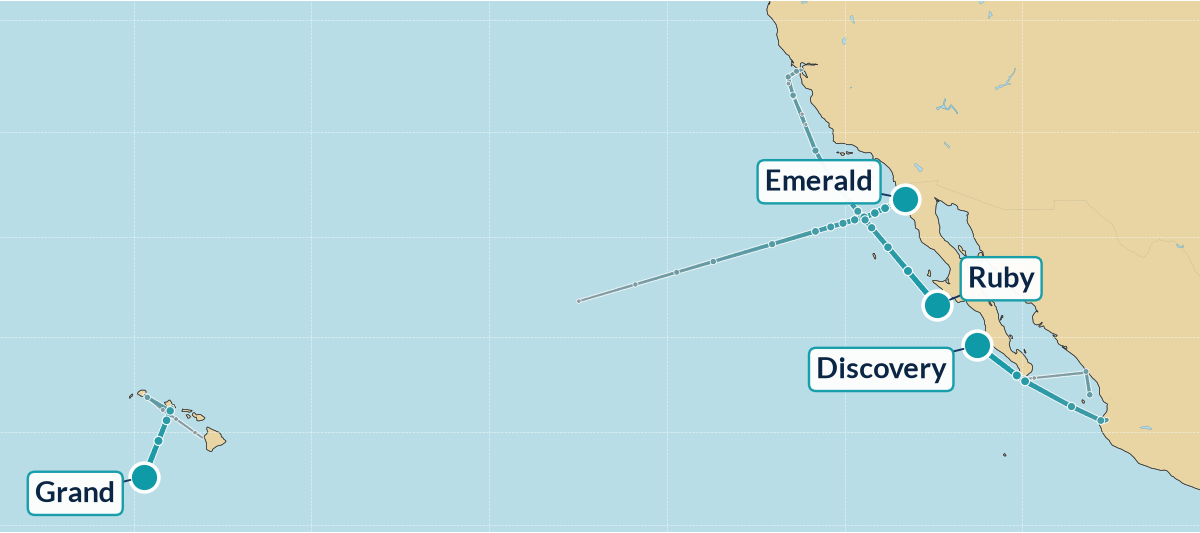
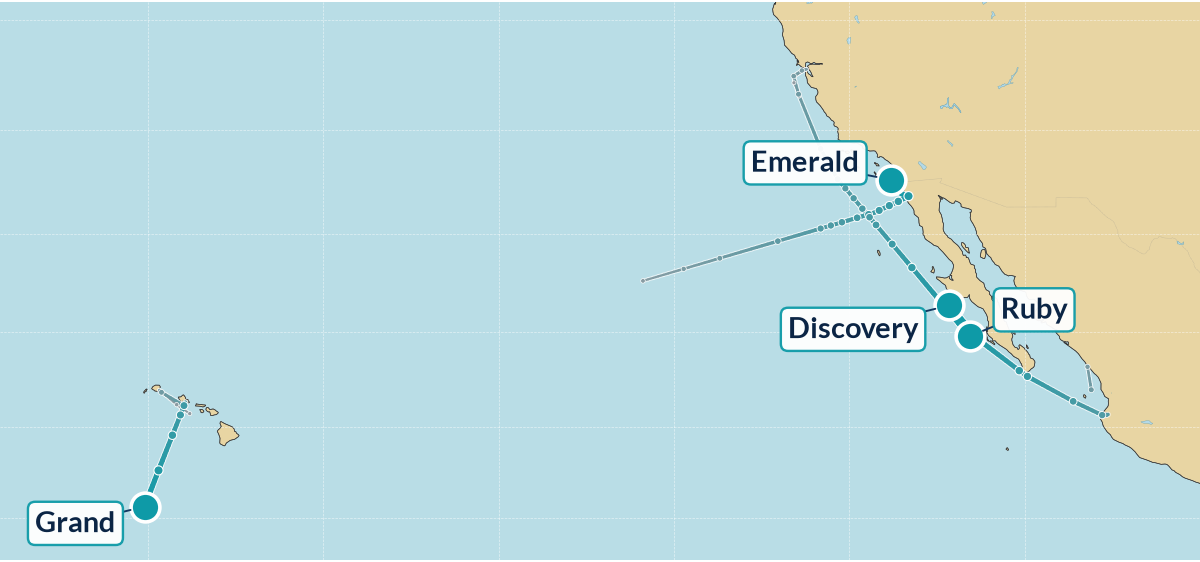
Update 10/16 00:01 PT

diff --git a/index.html b/index.html
@@ -1,47 +1,47 @@
 <!DOCTYPE html><html lang="en"><head><meta charset="utf-8"><meta name="viewport" content="width=device-width, initial-scale=1"><meta http-equiv="refresh" content="1800"><meta name="description" content="Live Princess Cruises fleet tracker"><title>Princess Patter — Thursday, October 15, 2026</title></head>
 <body style="margin:0;padding:0;background-color:#dee2e8;">
-<div style="display:none;max-height:0;overflow:hidden;opacity:0;color:#dee2e8;font-size:1px;line-height:1px;">Thursday, October 15, 2026 — 3:55pm PT | 17 ships | 13 at sea, 4 in port</div>
+<div style="display:none;max-height:0;overflow:hidden;opacity:0;color:#dee2e8;font-size:1px;line-height:1px;">Thursday, October 15, 2026 — 11:03pm PT | 17 ships | 11 at sea, 6 in port</div>
 <table role="presentation" width="100%" cellpadding="0" cellspacing="0" border="0" bgcolor="#dee2e8" style="background-color:#dee2e8;border-collapse:collapse;"><tr><td align="center" style="padding:16px 8px;">
 <table role="presentation" width="100%" cellpadding="0" cellspacing="0" border="0" bgcolor="#fdfdfb" style="width:100%;max-width:900px;background-color:#fdfdfb;border-collapse:collapse;border:1px solid #d6dae0;">
 <tr><td bgcolor="#1d3a6b" align="left" style="background-color:#1d3a6b;padding:24px 28px 24px 28px;"><div style="font-family:Georgia, 'Times New Roman', Times, serif;font-size:40px;line-height:46px;color:#ffffff;letter-spacing:0.5px;"><span style="color:#a8b6e2;">≋</span>&nbsp;Princess Patter</div></td></tr>
-<tr><td style="padding:0;"><table role="presentation" width="100%" cellpadding="0" cellspacing="0" border="0" style="border-collapse:collapse;"><tr><td height="5" bgcolor="#6a5aa8" style="background-color:#6a5aa8;height:5px;font-size:0;line-height:0;width:60%;">&nbsp;</td><td height="5" bgcolor="#2f6db5" style="background-color:#2f6db5;height:5px;font-size:0;line-height:0;width:40%;">&nbsp;</td></tr></table></td></tr><tr><td bgcolor="#1d3a6b" style="background:linear-gradient(#1d3a6b,#2f6db5);padding:10px 16px 14px;text-align:center;"><img src="regal.png?v=202610152300" alt="Regal Princess" style="width:100%;max-width:640px;height:auto;display:block;margin:0 auto;"></td></tr>
+<tr><td style="padding:0;"><table role="presentation" width="100%" cellpadding="0" cellspacing="0" border="0" style="border-collapse:collapse;"><tr><td height="5" bgcolor="#6a5aa8" style="background-color:#6a5aa8;height:5px;font-size:0;line-height:0;width:60%;">&nbsp;</td><td height="5" bgcolor="#2f6db5" style="background-color:#2f6db5;height:5px;font-size:0;line-height:0;width:40%;">&nbsp;</td></tr></table></td></tr><tr><td bgcolor="#1d3a6b" style="background:linear-gradient(#1d3a6b,#2f6db5);padding:10px 16px 14px;text-align:center;"><img src="regal.png?v=202610160001" alt="Regal Princess" style="width:100%;max-width:640px;height:auto;display:block;margin:0 auto;"></td></tr>
 <tr><td style="padding:22px 20px 6px 20px;">
-<div style="font-family:Georgia, 'Times New Roman', Times, serif;font-style:italic;font-size:20px;line-height:26px;color:#2f6db5;">Good afternoon!</div>
+<div style="font-family:Georgia, 'Times New Roman', Times, serif;font-style:italic;font-size:20px;line-height:26px;color:#2f6db5;">Good evening!</div>
 <div style="font-family:Georgia, 'Times New Roman', Times, serif;font-weight:bold;font-size:26px;line-height:32px;color:#1d3a6b;padding-top:6px;">Thursday, October 15, 2026</div>
-<div style="font-family:Helvetica, Arial, sans-serif;font-size:16px;line-height:22px;color:#2f6db5;padding-top:4px;">3:55pm PT | 17 ships | 13 at sea, 4 in port</div>
-</td></tr><tr><td style="padding:14px 20px 0 20px;"><div style="font-family:Georgia, 'Times New Roman', Times, serif;font-style:italic;font-weight:bold;font-size:18px;color:#295aa0;padding:0 4px 4px;border-bottom:1px solid #295aa0;">pacific map</div><a href="map.png?v=202610152300"><img src="map.png?v=202610152300" alt="Pacific fleet map" style="width:100%;height:auto;display:block;margin-top:8px;border-radius:12px;border:2px solid #c8dee2;"></a></td></tr>
+<div style="font-family:Helvetica, Arial, sans-serif;font-size:16px;line-height:22px;color:#2f6db5;padding-top:4px;">11:03pm PT | 17 ships | 11 at sea, 6 in port</div>
+</td></tr><tr><td style="padding:14px 20px 0 20px;"><div style="font-family:Georgia, 'Times New Roman', Times, serif;font-style:italic;font-weight:bold;font-size:18px;color:#295aa0;padding:0 4px 4px;border-bottom:1px solid #295aa0;">pacific map</div><a href="map.png?v=202610160001"><img src="map.png?v=202610160001" alt="Pacific fleet map" style="width:100%;height:auto;display:block;margin-top:8px;border-radius:12px;border:2px solid #c8dee2;"></a></td></tr>
 <tr><td style="padding:14px 20px 4px 20px;">
 <table role="presentation" width="100%" cellpadding="0" cellspacing="0" border="0" style="border-collapse:collapse;width:100%;font-family:Helvetica, Arial, sans-serif;font-size:15px;line-height:20px;color:#262c38;">
 <tr bgcolor="#2f6db5" style="background-color:#2f6db5;"><td style="font-size:14px;line-height:18px;font-weight:bold;color:#ffffff;text-align:left;padding:9px 8px;padding-left:10px;" colspan="2">Ship</td><td style="font-size:14px;line-height:18px;font-weight:bold;color:#ffffff;text-align:left;padding:9px 8px;">Where</td><td style="font-size:14px;line-height:18px;font-weight:bold;color:#ffffff;text-align:left;padding:9px 8px;">Next Port</td></tr>
+<tr><td colspan="4" style="padding:14px 4px 4px 4px;border-bottom:1px solid #295aa0;font-family:Georgia, 'Times New Roman', Times, serif;font-style:italic;font-weight:bold;font-size:18px;line-height:22px;color:#295aa0;">california coastal &amp; pacific northwest</td></tr>
+<tr bgcolor="#eef0f3" style="background-color:#eef0f3;"><td width="18" style="padding:7px 0 7px 8px;vertical-align:top;width:18px;color:#1a9a9a;font-size:18px;">&nbsp;</td><td style="padding:7px 8px;vertical-align:top;"><b style="color:#1d3a6b;">Emerald</b></td><td style="padding:7px 8px;vertical-align:top;">At Sea <span style="white-space:nowrap;font-size:12px;color:#707884;" title="Forecast high/low">🌙&thinsp;74°</span> <span style="font-size:12px;color:#707884;"><span style="white-space:nowrap;">🌊 4 ft</span> &middot; <span style="white-space:nowrap;">💨 WNW 10 kt</span> &middot; <span style="white-space:nowrap;">🚢 16.6 kn</span></span></td><td style="padding:7px 8px;vertical-align:top;">Los Angeles <span style="white-space:nowrap;font-size:12px;color:#707884;" title="Forecast high/low">⛅&thinsp;98°/70°</span> <span style="font-size:13px;color:#707884;">(10/16 6:15am)</span></td></tr>
 <tr><td colspan="4" style="padding:14px 4px 4px 4px;border-bottom:1px solid #295aa0;font-family:Georgia, 'Times New Roman', Times, serif;font-style:italic;font-weight:bold;font-size:18px;line-height:22px;color:#295aa0;">canada &amp; new england</td></tr>
-<tr bgcolor="#eef0f3" style="background-color:#eef0f3;"><td width="18" style="padding:7px 0 7px 8px;vertical-align:top;width:18px;color:#1a9a9a;font-size:18px;">&nbsp;</td><td style="padding:7px 8px;vertical-align:top;"><b style="color:#1d3a6b;">Majestic</b></td><td style="padding:7px 8px;vertical-align:top;">At Sea <span style="white-space:nowrap;font-size:12px;color:#707884;" title="Forecast high/low">🌙&thinsp;48°</span> <span style="font-size:12px;color:#707884;"><span style="white-space:nowrap;">🌊 2 ft</span> &middot; <span style="white-space:nowrap;">🚢 17.6 kn</span></span></td><td style="padding:7px 8px;vertical-align:top;">New York <span style="white-space:nowrap;font-size:12px;color:#707884;" title="Forecast high/low">☁&thinsp;61°/44°</span> <span style="font-size:13px;color:#707884;">(10/17 4am)</span></td></tr>
-<tr bgcolor="#ffffff" style="background-color:#ffffff;"><td width="18" style="padding:7px 0 7px 8px;vertical-align:top;width:18px;color:#1a9a9a;font-size:18px;">&nbsp;</td><td style="padding:7px 8px;vertical-align:top;"><b style="color:#1d3a6b;">Sapphire</b></td><td style="padding:7px 8px;vertical-align:top;">At Sea <span style="white-space:nowrap;font-size:12px;color:#707884;" title="Forecast high/low">🌙&thinsp;35°</span> <span style="font-size:12px;color:#707884;"><span style="white-space:nowrap;">💨 WNW 4 kt</span> &middot; <span style="white-space:nowrap;">🚢 19.0 kn</span></span></td><td style="padding:7px 8px;vertical-align:top;">Halifax <span style="white-space:nowrap;font-size:12px;color:#707884;" title="Forecast high/low">🌧&thinsp;62°/38°</span> <span style="font-size:13px;color:#707884;">(10/17 3am)</span></td></tr>
+<tr bgcolor="#eef0f3" style="background-color:#eef0f3;"><td width="18" style="padding:7px 0 7px 8px;vertical-align:top;width:18px;color:#1a9a9a;font-size:18px;">&nbsp;</td><td style="padding:7px 8px;vertical-align:top;"><b style="color:#1d3a6b;">Majestic</b></td><td style="padding:7px 8px;vertical-align:top;">At Sea <span style="white-space:nowrap;font-size:12px;color:#707884;" title="Forecast high/low">🌙&thinsp;51°</span> <span style="font-size:12px;color:#707884;"><span style="white-space:nowrap;">🌊 4 ft</span> &middot; <span style="white-space:nowrap;">💨 ENE 7 kt</span> &middot; <span style="white-space:nowrap;">🚢 18.0 kn</span></span></td><td style="padding:7px 8px;vertical-align:top;">New York <span style="white-space:nowrap;font-size:12px;color:#707884;" title="Forecast high/low">☁&thinsp;61°/44°</span> <span style="font-size:13px;color:#707884;">(10/17 4am)</span></td></tr>
+<tr bgcolor="#ffffff" style="background-color:#ffffff;"><td width="18" style="padding:7px 0 7px 8px;vertical-align:top;width:18px;color:#1a9a9a;font-size:18px;">&nbsp;</td><td style="padding:7px 8px;vertical-align:top;"><b style="color:#1d3a6b;">Sapphire</b></td><td style="padding:7px 8px;vertical-align:top;">At Sea <span style="white-space:nowrap;font-size:12px;color:#707884;" title="Forecast high/low">🌙&thinsp;46°</span> <span style="font-size:12px;color:#707884;"><span style="white-space:nowrap;">🌊 1 ft</span> &middot; <span style="white-space:nowrap;">💨 NE 9 kt</span> &middot; <span style="white-space:nowrap;">🚢 10.6 kn</span></span></td><td style="padding:7px 8px;vertical-align:top;">Halifax <span style="white-space:nowrap;font-size:12px;color:#707884;" title="Forecast high/low">🌧&thinsp;62°/37°</span> <span style="font-size:13px;color:#707884;">(10/17 3am)</span></td></tr>
 <tr><td colspan="4" style="padding:14px 4px 4px 4px;border-bottom:1px solid #295aa0;font-family:Georgia, 'Times New Roman', Times, serif;font-style:italic;font-weight:bold;font-size:18px;line-height:22px;color:#295aa0;">caribbean</td></tr>
-<tr bgcolor="#eef0f3" style="background-color:#eef0f3;"><td width="18" style="padding:7px 0 7px 8px;vertical-align:top;width:18px;color:#1a9a9a;font-size:18px;">&nbsp;</td><td style="padding:7px 8px;vertical-align:top;"><b style="color:#1d3a6b;">Caribbean</b></td><td style="padding:7px 8px;vertical-align:top;">At Sea <span style="white-space:nowrap;font-size:12px;color:#707884;" title="Forecast high/low">🌙&thinsp;81°</span> <span style="font-size:12px;color:#707884;"><span style="white-space:nowrap;">🌊 3 ft</span> &middot; <span style="white-space:nowrap;">🚢 10.8 kn</span></span></td><td style="padding:7px 8px;vertical-align:top;">Grand Turk <span style="white-space:nowrap;font-size:12px;color:#707884;" title="Forecast high/low">🌦&thinsp;85°/84°</span> <span style="font-size:13px;color:#707884;">(10/16 4am)</span></td></tr>
-<tr bgcolor="#ffffff" style="background-color:#ffffff;"><td width="18" style="padding:7px 0 7px 8px;vertical-align:top;width:18px;color:#1a9a9a;font-size:18px;">&nbsp;</td><td style="padding:7px 8px;vertical-align:top;"><b style="color:#1d3a6b;">Coral</b></td><td style="padding:7px 8px;vertical-align:top;">At Sea <span style="white-space:nowrap;font-size:12px;color:#707884;" title="Forecast high/low">🌙&thinsp;84°</span> <span style="font-size:12px;color:#707884;"><span style="white-space:nowrap;">🌊 2 ft</span> &middot; <span style="white-space:nowrap;">🚢 18.3 kn</span></span></td><td style="padding:7px 8px;vertical-align:top;">Philipsburg <span style="white-space:nowrap;font-size:12px;color:#707884;" title="Forecast high/low">☀&thinsp;84°/83°</span> <span style="font-size:13px;color:#707884;">(10/18 6am)</span></td></tr>
-<tr bgcolor="#eef0f3" style="background-color:#eef0f3;"><td width="18" style="padding:7px 0 7px 8px;vertical-align:top;width:18px;color:#1a9a9a;font-size:18px;">&nbsp;</td><td style="padding:7px 8px;vertical-align:top;"><b style="color:#1d3a6b;">Regal</b></td><td style="padding:7px 8px;vertical-align:top;">At Sea <span style="white-space:nowrap;font-size:12px;color:#707884;" title="Forecast high/low">🌙&thinsp;84°</span> <span style="font-size:12px;color:#707884;"><span style="white-space:nowrap;">🌊 3 ft</span> &middot; <span style="white-space:nowrap;">🚢 12.0 kn</span></span></td><td style="padding:7px 8px;vertical-align:top;">Nassau <span style="white-space:nowrap;font-size:12px;color:#707884;" title="Forecast high/low">☁&thinsp;89°/78°</span> <span style="font-size:13px;color:#707884;">(10/16 5am)</span></td></tr>
+<tr bgcolor="#eef0f3" style="background-color:#eef0f3;"><td width="18" style="padding:7px 0 7px 8px;vertical-align:top;width:18px;color:#1a9a9a;font-size:18px;">&nbsp;</td><td style="padding:7px 8px;vertical-align:top;"><b style="color:#1d3a6b;">Caribbean</b></td><td style="padding:7px 8px;vertical-align:top;">At Sea <span style="white-space:nowrap;font-size:12px;color:#707884;" title="Forecast high/low">🌙&thinsp;84°</span> <span style="font-size:12px;color:#707884;"><span style="white-space:nowrap;">🌊 4 ft</span> &middot; <span style="white-space:nowrap;">💨 E 15 kt</span> &middot; <span style="white-space:nowrap;">🚢 11.2 kn</span></span></td><td style="padding:7px 8px;vertical-align:top;">Grand Turk <span style="white-space:nowrap;font-size:12px;color:#707884;" title="Forecast high/low">🌦&thinsp;85°/84°</span> <span style="font-size:13px;color:#707884;">(10/16 4am)</span></td></tr>
+<tr bgcolor="#ffffff" style="background-color:#ffffff;"><td width="18" style="padding:7px 0 7px 8px;vertical-align:top;width:18px;color:#1a9a9a;font-size:18px;">&nbsp;</td><td style="padding:7px 8px;vertical-align:top;"><b style="color:#1d3a6b;">Coral</b></td><td style="padding:7px 8px;vertical-align:top;">At Sea <span style="white-space:nowrap;font-size:12px;color:#707884;" title="Forecast high/low">🌙&thinsp;84°</span> <span style="font-size:12px;color:#707884;"><span style="white-space:nowrap;">🌊 2 ft</span> &middot; <span style="white-space:nowrap;">💨 E 12 kt</span> &middot; <span style="white-space:nowrap;">🚢 18.4 kn</span></span></td><td style="padding:7px 8px;vertical-align:top;">Philipsburg <span style="white-space:nowrap;font-size:12px;color:#707884;" title="Forecast high/low">☀&thinsp;84°/83°</span> <span style="font-size:13px;color:#707884;">(10/18 6am)</span></td></tr>
+<tr bgcolor="#eef0f3" style="background-color:#eef0f3;"><td width="18" style="padding:7px 0 7px 8px;vertical-align:top;width:18px;color:#1a9a9a;font-size:18px;">&nbsp;</td><td style="padding:7px 8px;vertical-align:top;"><b style="color:#1d3a6b;">Regal</b></td><td style="padding:7px 8px;vertical-align:top;">At Sea <span style="white-space:nowrap;font-size:12px;color:#707884;" title="Forecast high/low">🌙&thinsp;84°</span> <span style="font-size:12px;color:#707884;"><span style="white-space:nowrap;">🌊 3 ft</span> &middot; <span style="white-space:nowrap;">💨 E 12 kt</span> &middot; <span style="white-space:nowrap;">🚢 12.1 kn</span></span></td><td style="padding:7px 8px;vertical-align:top;">Nassau <span style="white-space:nowrap;font-size:12px;color:#707884;" title="Forecast high/low">☁&thinsp;89°/78°</span> <span style="font-size:13px;color:#707884;">(10/16 5am)</span></td></tr>
+<tr bgcolor="#ffffff" style="background-color:#ffffff;"><td width="18" style="padding:7px 0 7px 8px;vertical-align:top;width:18px;color:#1a9a9a;font-size:18px;">&nbsp;</td><td style="padding:7px 8px;vertical-align:top;"><b style="color:#1d3a6b;">Star</b></td><td style="padding:7px 8px;vertical-align:top;">At Sea <span style="white-space:nowrap;font-size:12px;color:#707884;" title="Forecast high/low">🌙&thinsp;84°</span> <span style="font-size:12px;color:#707884;"><span style="white-space:nowrap;">🌊 6 ft</span> &middot; <span style="white-space:nowrap;">💨 ENE 14 kt</span> &middot; <span style="white-space:nowrap;">🚢 19.0 kn</span></span></td><td style="padding:7px 8px;vertical-align:top;">Oranjestad <span style="white-space:nowrap;font-size:12px;color:#707884;" title="Forecast high/low">⛈&thinsp;89°/83°</span> <span style="font-size:13px;color:#707884;">(10/17 4am)</span></td></tr>
 <tr><td colspan="4" style="padding:14px 4px 4px 4px;border-bottom:1px solid #295aa0;font-family:Georgia, 'Times New Roman', Times, serif;font-style:italic;font-weight:bold;font-size:18px;line-height:22px;color:#295aa0;">mexican riviera</td></tr>
-<tr bgcolor="#eef0f3" style="background-color:#eef0f3;"><td width="18" style="padding:7px 0 7px 8px;vertical-align:top;width:18px;color:#1a9a9a;font-size:18px;">&nbsp;</td><td style="padding:7px 8px;vertical-align:top;"><b style="color:#1d3a6b;">Discovery</b></td><td style="padding:7px 8px;vertical-align:top;">At Sea <span style="white-space:nowrap;font-size:12px;color:#707884;" title="Forecast high/low">🌙&thinsp;81°</span> <span style="font-size:12px;color:#707884;"><span style="white-space:nowrap;">🌊 5 ft</span> &middot; <span style="white-space:nowrap;">🚢 20.6 kn</span></span></td><td style="padding:7px 8px;vertical-align:top;">Los Angeles <span style="white-space:nowrap;font-size:12px;color:#707884;" title="Forecast high/low">☁&thinsp;91°/70°</span> <span style="font-size:13px;color:#707884;">(10/17 6:15am)</span></td></tr>
-<tr bgcolor="#ffffff" style="background-color:#ffffff;"><td width="18" style="padding:7px 0 7px 8px;vertical-align:top;width:18px;color:#1a9a9a;font-size:18px;">&nbsp;</td><td style="padding:7px 8px;vertical-align:top;"><b style="color:#1d3a6b;">Emerald</b></td><td style="padding:7px 8px;vertical-align:top;">Ensenada <span style="white-space:nowrap;font-size:12px;color:#707884;" title="Forecast high/low">🌙&thinsp;70°</span> <span style="font-size:13px;color:#707884;">(5pm)</span></td><td style="padding:7px 8px;vertical-align:top;">Los Angeles <span style="white-space:nowrap;font-size:12px;color:#707884;" title="Forecast high/low">⛅&thinsp;97°/69°</span> <span style="font-size:13px;color:#707884;">(10/16 6:15am)</span></td></tr>
-<tr bgcolor="#eef0f3" style="background-color:#eef0f3;"><td width="18" style="padding:7px 0 7px 8px;vertical-align:top;width:18px;color:#1a9a9a;font-size:18px;">&nbsp;</td><td style="padding:7px 8px;vertical-align:top;"><b style="color:#1d3a6b;">Ruby</b></td><td style="padding:7px 8px;vertical-align:top;">At Sea <span style="white-space:nowrap;font-size:12px;color:#707884;" title="Forecast high/low">🌙&thinsp;79°</span> <span style="font-size:12px;color:#707884;"><span style="white-space:nowrap;">🌊 6 ft</span> &middot; <span style="white-space:nowrap;">🚢 18.1 kn</span></span></td><td style="padding:7px 8px;vertical-align:top;">Puerto Vallarta <span style="white-space:nowrap;font-size:12px;color:#707884;" title="Forecast high/low">🌧&thinsp;93°/74°</span> <span style="font-size:13px;color:#707884;">(10/17 7am)</span></td></tr>
-<tr><td colspan="4" style="padding:14px 4px 4px 4px;border-bottom:1px solid #295aa0;font-family:Georgia, 'Times New Roman', Times, serif;font-style:italic;font-weight:bold;font-size:18px;line-height:22px;color:#295aa0;">panama canal</td></tr>
-<tr bgcolor="#eef0f3" style="background-color:#eef0f3;"><td width="18" style="padding:7px 0 7px 8px;vertical-align:top;width:18px;color:#1a9a9a;font-size:18px;">&nbsp;</td><td style="padding:7px 8px;vertical-align:top;"><b style="color:#1d3a6b;">Star</b></td><td style="padding:7px 8px;vertical-align:top;">At Sea <span style="white-space:nowrap;font-size:12px;color:#707884;" title="Forecast high/low">☁&thinsp;85°</span> <span style="font-size:12px;color:#707884;"><span style="white-space:nowrap;">🌊 3 ft</span> &middot; <span style="white-space:nowrap;">🚢 19.4 kn</span></span></td><td style="padding:7px 8px;vertical-align:top;">Oranjestad <span style="white-space:nowrap;font-size:12px;color:#707884;" title="Forecast high/low">⛈&thinsp;89°/83°</span> <span style="font-size:13px;color:#707884;">(10/17 4am)</span></td></tr>
+<tr bgcolor="#eef0f3" style="background-color:#eef0f3;"><td width="18" style="padding:7px 0 7px 8px;vertical-align:top;width:18px;color:#1a9a9a;font-size:18px;">&nbsp;</td><td style="padding:7px 8px;vertical-align:top;"><b style="color:#1d3a6b;">Discovery</b></td><td style="padding:7px 8px;vertical-align:top;">At Sea <span style="white-space:nowrap;font-size:12px;color:#707884;" title="Forecast high/low">🌙&thinsp;79°</span> <span style="font-size:12px;color:#707884;"><span style="white-space:nowrap;">🌊 6 ft</span> &middot; <span style="white-space:nowrap;">💨 NNE 10 kt</span> &middot; <span style="white-space:nowrap;">🚢 19.5 kn</span></span></td><td style="padding:7px 8px;vertical-align:top;">Los Angeles <span style="white-space:nowrap;font-size:12px;color:#707884;" title="Forecast high/low">☁&thinsp;91°/70°</span> <span style="font-size:13px;color:#707884;">(10/17 6:15am)</span></td></tr>
+<tr bgcolor="#ffffff" style="background-color:#ffffff;"><td width="18" style="padding:7px 0 7px 8px;vertical-align:top;width:18px;color:#1a9a9a;font-size:18px;">&nbsp;</td><td style="padding:7px 8px;vertical-align:top;"><b style="color:#1d3a6b;">Ruby</b></td><td style="padding:7px 8px;vertical-align:top;">At Sea <span style="white-space:nowrap;font-size:12px;color:#707884;" title="Forecast high/low">🌙&thinsp;81°</span> <span style="font-size:12px;color:#707884;"><span style="white-space:nowrap;">🌊 5 ft</span> &middot; <span style="white-space:nowrap;">💨 NNW 8 kt</span> &middot; <span style="white-space:nowrap;">🚢 17.6 kn</span></span></td><td style="padding:7px 8px;vertical-align:top;">Puerto Vallarta <span style="white-space:nowrap;font-size:12px;color:#707884;" title="Forecast high/low">🌧&thinsp;93°/74°</span> <span style="font-size:13px;color:#707884;">(10/17 7am)</span></td></tr>
 <tr><td colspan="4" style="padding:14px 4px 4px 4px;border-bottom:1px solid #295aa0;font-family:Georgia, 'Times New Roman', Times, serif;font-style:italic;font-weight:bold;font-size:18px;line-height:22px;color:#295aa0;">asia</td></tr>
-<tr bgcolor="#eef0f3" style="background-color:#eef0f3;"><td width="18" style="padding:7px 0 7px 8px;vertical-align:top;width:18px;color:#1a9a9a;font-size:18px;">&nbsp;</td><td style="padding:7px 8px;vertical-align:top;"><b style="color:#1d3a6b;">Diamond</b></td><td style="padding:7px 8px;vertical-align:top;">Busan <span style="white-space:nowrap;font-size:12px;color:#707884;" title="Forecast high/low">☀&thinsp;73°</span> <span style="font-size:13px;color:#707884;">(10/16 12am)</span></td><td style="padding:7px 8px;vertical-align:top;">Nagasaki <span style="white-space:nowrap;font-size:12px;color:#707884;" title="Forecast high/low">⛅&thinsp;74°/64°</span> <span style="font-size:13px;color:#707884;">(10/16 3pm)</span></td></tr>
+<tr bgcolor="#eef0f3" style="background-color:#eef0f3;"><td width="18" style="padding:7px 0 7px 8px;vertical-align:top;width:18px;color:#1a9a9a;font-size:18px;">&nbsp;</td><td style="padding:7px 8px;vertical-align:top;"><b style="color:#1d3a6b;">Diamond</b></td><td style="padding:7px 8px;vertical-align:top;">Busan <span style="white-space:nowrap;font-size:12px;color:#707884;" title="Forecast high/low">☀&thinsp;72°</span> <span style="font-size:13px;color:#707884;">(10/16 12am)</span></td><td style="padding:7px 8px;vertical-align:top;">Nagasaki <span style="white-space:nowrap;font-size:12px;color:#707884;" title="Forecast high/low">☁&thinsp;76°/64°</span> <span style="font-size:13px;color:#707884;">(10/16 3pm)</span></td></tr>
 <tr bgcolor="#f6e7b0" style="background-color:#f6e7b0;"><td width="18" style="border-left:4px solid #be8c14;padding:7px 0 7px 8px;vertical-align:top;width:18px;color:#1a9a9a;font-size:18px;">&nbsp;</td><td style="padding:7px 8px;vertical-align:top;"><b style="color:#1d3a6b;">Royal</b></td><td style="padding:7px 8px;vertical-align:top;"><span style="color:#d6a214;" title="Maiden call">&#9733;</span>&nbsp;Singapore <span style="font-size:13px;color:#707884;">(Drydock)</span> <span style="display:inline-block;font-size:10px;line-height:14px;font-weight:bold;letter-spacing:0.4px;color:#966c00;background-color:#fcf3d6;border:1px solid #d6a214;border-radius:8px;padding:0 5px;white-space:nowrap;">MAIDEN CALL</span></td><td style="padding:7px 8px;vertical-align:top;">Drydock <span style="font-size:13px;color:#707884;">(to 11/1)</span></td></tr>
 <tr><td colspan="4" style="padding:14px 4px 4px 4px;border-bottom:1px solid #295aa0;font-family:Georgia, 'Times New Roman', Times, serif;font-style:italic;font-weight:bold;font-size:18px;line-height:22px;color:#295aa0;">australia &amp; new zealand</td></tr>
-<tr bgcolor="#eef0f3" style="background-color:#eef0f3;"><td width="18" style="padding:7px 0 7px 8px;vertical-align:top;width:18px;color:#1a9a9a;font-size:18px;">&nbsp;</td><td style="padding:7px 8px;vertical-align:top;"><b style="color:#1d3a6b;">Crown</b></td><td style="padding:7px 8px;vertical-align:top;">Albany <span style="white-space:nowrap;font-size:12px;color:#707884;" title="Forecast high/low">☀&thinsp;73°</span> <span style="font-size:13px;color:#707884;">(10/16 1am)</span></td><td style="padding:7px 8px;vertical-align:top;">Busselton <span style="white-space:nowrap;font-size:12px;color:#707884;" title="Forecast high/low">☁&thinsp;67°/57°</span> <span style="font-size:13px;color:#707884;">(10/16 6pm)</span></td></tr>
+<tr bgcolor="#eef0f3" style="background-color:#eef0f3;"><td width="18" style="padding:7px 0 7px 8px;vertical-align:top;width:18px;color:#1a9a9a;font-size:18px;">&nbsp;</td><td style="padding:7px 8px;vertical-align:top;"><b style="color:#1d3a6b;">Crown</b></td><td style="padding:7px 8px;vertical-align:top;">Albany <span style="white-space:nowrap;font-size:12px;color:#707884;" title="Forecast high/low">☀&thinsp;68°</span> <span style="font-size:13px;color:#707884;">(10/16 1am)</span></td><td style="padding:7px 8px;vertical-align:top;">Busselton <span style="white-space:nowrap;font-size:12px;color:#707884;" title="Forecast high/low">☁&thinsp;67°/57°</span> <span style="font-size:13px;color:#707884;">(10/16 6pm)</span></td></tr>
 <tr><td colspan="4" style="padding:14px 4px 4px 4px;border-bottom:1px solid #295aa0;font-family:Georgia, 'Times New Roman', Times, serif;font-style:italic;font-weight:bold;font-size:18px;line-height:22px;color:#295aa0;">mediterranean</td></tr>
-<tr bgcolor="#eef0f3" style="background-color:#eef0f3;"><td width="18" style="padding:7px 0 7px 8px;vertical-align:top;width:18px;color:#1a9a9a;font-size:18px;">&nbsp;</td><td style="padding:7px 8px;vertical-align:top;"><b style="color:#1d3a6b;">Enchanted</b></td><td style="padding:7px 8px;vertical-align:top;">At Sea <span style="white-space:nowrap;font-size:12px;color:#707884;" title="Forecast high/low">⛅&thinsp;69°</span> <span style="font-size:12px;color:#707884;"><span style="white-space:nowrap;">🌊 3 ft</span> &middot; <span style="white-space:nowrap;">🚢 19.2 kn</span></span></td><td style="padding:7px 8px;vertical-align:top;">Santorini <span style="white-space:nowrap;font-size:12px;color:#707884;" title="Forecast high/low">☁&thinsp;66°/61°</span> <span style="font-size:13px;color:#707884;">(10/15 11pm)</span></td></tr>
-<tr bgcolor="#ffffff" style="background-color:#ffffff;"><td width="18" style="padding:7px 0 7px 8px;vertical-align:top;width:18px;color:#1a9a9a;font-size:18px;">&nbsp;</td><td style="padding:7px 8px;vertical-align:top;"><b style="color:#1d3a6b;">Island</b></td><td style="padding:7px 8px;vertical-align:top;">At Sea <span style="white-space:nowrap;font-size:12px;color:#707884;" title="Forecast high/low">☁&thinsp;69°</span> <span style="font-size:12px;color:#707884;"><span style="white-space:nowrap;">🌊 7 ft</span> &middot; <span style="white-space:nowrap;">🚢 17.1 kn</span></span></td><td style="padding:7px 8px;vertical-align:top;">Cadiz <span style="white-space:nowrap;font-size:12px;color:#707884;" title="Forecast high/low">☁&thinsp;84°/69°</span> <span style="font-size:13px;color:#707884;">(10/16 11pm)</span></td></tr>
-<tr bgcolor="#eef0f3" style="background-color:#eef0f3;"><td width="18" style="padding:7px 0 7px 8px;vertical-align:top;width:18px;color:#1a9a9a;font-size:18px;">&nbsp;</td><td style="padding:7px 8px;vertical-align:top;"><b style="color:#1d3a6b;">Sun</b></td><td style="padding:7px 8px;vertical-align:top;">At Sea <span style="white-space:nowrap;font-size:12px;color:#707884;" title="Forecast high/low">🌙&thinsp;71°</span> <span style="font-size:12px;color:#707884;"><span style="white-space:nowrap;">🌊 1 ft</span> &middot; <span style="white-space:nowrap;">🚢 10.9 kn</span></span></td><td style="padding:7px 8px;vertical-align:top;">La Spezia <span style="white-space:nowrap;font-size:12px;color:#707884;" title="Forecast high/low">☁&thinsp;73°/60°</span> <span style="font-size:13px;color:#707884;">(10/15 10pm)</span></td></tr>
+<tr bgcolor="#eef0f3" style="background-color:#eef0f3;"><td width="18" style="padding:7px 0 7px 8px;vertical-align:top;width:18px;color:#1a9a9a;font-size:18px;">&nbsp;</td><td style="padding:7px 8px;vertical-align:top;"><b style="color:#1d3a6b;">Enchanted</b></td><td style="padding:7px 8px;vertical-align:top;">Santorini <span style="white-space:nowrap;font-size:12px;color:#707884;" title="Forecast high/low">⛅&thinsp;63°</span> <span style="font-size:13px;color:#707884;">(10/16 10am)</span></td><td style="padding:7px 8px;vertical-align:top;">Kusadasi <span style="white-space:nowrap;font-size:12px;color:#707884;" title="Forecast high/low">☁&thinsp;68°/59°</span> <span style="font-size:13px;color:#707884;">(10/16 9pm)</span></td></tr>
+<tr bgcolor="#ffffff" style="background-color:#ffffff;"><td width="18" style="padding:7px 0 7px 8px;vertical-align:top;width:18px;color:#1a9a9a;font-size:18px;">&nbsp;</td><td style="padding:7px 8px;vertical-align:top;"><b style="color:#1d3a6b;">Island</b></td><td style="padding:7px 8px;vertical-align:top;">At Sea <span style="white-space:nowrap;font-size:12px;color:#707884;" title="Forecast high/low">🌙&thinsp;69°</span> <span style="font-size:12px;color:#707884;"><span style="white-space:nowrap;">🌊 8 ft</span> &middot; <span style="white-space:nowrap;">💨 NE 16 kt</span> &middot; <span style="white-space:nowrap;">🚢 16.9 kn</span></span></td><td style="padding:7px 8px;vertical-align:top;">Cadiz <span style="white-space:nowrap;font-size:12px;color:#707884;" title="Forecast high/low">☁&thinsp;84°/69°</span> <span style="font-size:13px;color:#707884;">(10/16 11pm)</span></td></tr>
+<tr bgcolor="#eef0f3" style="background-color:#eef0f3;"><td width="18" style="padding:7px 0 7px 8px;vertical-align:top;width:18px;color:#1a9a9a;font-size:18px;">&nbsp;</td><td style="padding:7px 8px;vertical-align:top;"><b style="color:#1d3a6b;">Sun</b></td><td style="padding:7px 8px;vertical-align:top;">La Spezia <span style="white-space:nowrap;font-size:12px;color:#707884;" title="Forecast high/low">☀&thinsp;62°</span> <span style="font-size:13px;color:#707884;">(10/16 10am)</span></td><td style="padding:7px 8px;vertical-align:top;">Civitavecchia <span style="white-space:nowrap;font-size:12px;color:#707884;" title="Forecast high/low">☁&thinsp;75°/62°</span> <span style="font-size:13px;color:#707884;">(10/16 9pm)</span></td></tr>
 <tr><td colspan="4" style="padding:14px 4px 4px 4px;border-bottom:1px solid #295aa0;font-family:Georgia, 'Times New Roman', Times, serif;font-style:italic;font-weight:bold;font-size:18px;line-height:22px;color:#295aa0;">northern europe</td></tr>
-<tr bgcolor="#eef0f3" style="background-color:#eef0f3;"><td width="18" style="padding:7px 0 7px 8px;vertical-align:top;width:18px;color:#1a9a9a;font-size:18px;">&nbsp;</td><td style="padding:7px 8px;vertical-align:top;"><b style="color:#1d3a6b;">Sky</b></td><td style="padding:7px 8px;vertical-align:top;">At Sea <span style="white-space:nowrap;font-size:12px;color:#707884;" title="Forecast high/low">☁&thinsp;55°</span> <span style="font-size:12px;color:#707884;"><span style="white-space:nowrap;">🌊 6 ft</span> &middot; <span style="white-space:nowrap;">🚢 10.4 kn</span></span></td><td style="padding:7px 8px;vertical-align:top;">Kristiansand <span style="white-space:nowrap;font-size:12px;color:#707884;" title="Forecast high/low">🌦&thinsp;56°/48°</span> <span style="font-size:13px;color:#707884;">(10/15)</span></td></tr>
+<tr bgcolor="#eef0f3" style="background-color:#eef0f3;"><td width="18" style="padding:7px 0 7px 8px;vertical-align:top;width:18px;color:#1a9a9a;font-size:18px;">&nbsp;</td><td style="padding:7px 8px;vertical-align:top;"><b style="color:#1d3a6b;">Sky</b></td><td style="padding:7px 8px;vertical-align:top;">Kristiansand <span style="white-space:nowrap;font-size:12px;color:#707884;" title="Forecast high/low">☁&thinsp;50°</span> <span style="font-size:13px;color:#707884;">(10/16 8:30am)</span></td><td style="padding:7px 8px;vertical-align:top;">Oslo <span style="white-space:nowrap;font-size:12px;color:#707884;" title="Forecast high/low">☁&thinsp;57°/46°</span> <span style="font-size:13px;color:#707884;">(~10/16)</span></td></tr>
 <tr><td colspan="4" style="padding:14px 4px 4px 4px;border-bottom:1px solid #295aa0;font-family:Georgia, 'Times New Roman', Times, serif;font-style:italic;font-weight:bold;font-size:18px;line-height:22px;color:#295aa0;">tahiti &amp; south pacific</td></tr>
-<tr bgcolor="#eef0f3" style="background-color:#eef0f3;"><td width="18" style="padding:7px 0 7px 8px;vertical-align:top;width:18px;color:#1a9a9a;font-size:18px;">&nbsp;</td><td style="padding:7px 8px;vertical-align:top;"><b style="color:#1d3a6b;">Grand</b></td><td style="padding:7px 8px;vertical-align:top;">At Sea <span style="white-space:nowrap;font-size:12px;color:#707884;" title="Forecast high/low">🌙&thinsp;82°</span> <span style="font-size:12px;color:#707884;"><span style="white-space:nowrap;">🌊 7 ft</span> &middot; <span style="white-space:nowrap;">🚢 16.5 kn</span></span></td><td style="padding:7px 8px;vertical-align:top;">Apia <span style="white-space:nowrap;font-size:12px;color:#707884;" title="Forecast high/low">🌦&thinsp;80°/72°</span> <span style="font-size:13px;color:#707884;">(10/20 12pm)</span></td></tr>
+<tr bgcolor="#eef0f3" style="background-color:#eef0f3;"><td width="18" style="padding:7px 0 7px 8px;vertical-align:top;width:18px;color:#1a9a9a;font-size:18px;">&nbsp;</td><td style="padding:7px 8px;vertical-align:top;"><b style="color:#1d3a6b;">Grand</b></td><td style="padding:7px 8px;vertical-align:top;">At Sea <span style="white-space:nowrap;font-size:12px;color:#707884;" title="Forecast high/low">🌧&thinsp;81°</span> <span style="font-size:12px;color:#707884;"><span style="white-space:nowrap;">🌊 7 ft</span> &middot; <span style="white-space:nowrap;">💨 ENE 16 kt</span> &middot; <span style="white-space:nowrap;">🚢 18.2 kn</span></span></td><td style="padding:7px 8px;vertical-align:top;">Apia <span style="white-space:nowrap;font-size:12px;color:#707884;" title="Forecast high/low">🌦&thinsp;80°/72°</span> <span style="font-size:13px;color:#707884;">(10/20 12pm)</span></td></tr>
 </table>
 <div style="font-family:Helvetica, Arial, sans-serif;font-size:13px;line-height:18px;color:#707884;padding:8px 4px 0 4px;"><span style="color:#d6a214;">&#9733;</span> = maiden call (a ship’s first-ever visit to that port)<br><span style="display:inline-block;width:22px;height:12px;background-color:#f6e7b0;border-left:4px solid #be8c14;vertical-align:middle;font-size:0;line-height:0;">&nbsp;</span> Gold row = in port on its maiden call<br>Maiden calls ahead: <b style="color:#966c00;">Royal – Singapore 10/15</b></div>
 </td></tr>
 <tr><td align="center" style="padding:22px 20px 6px 20px;font-family:Georgia, 'Times New Roman', Times, serif;font-style:italic;font-size:17px;line-height:24px;color:#295aa0;text-align:center;">“Bon voyage!”</td></tr>
-<tr><td align="center" style="padding:2px 20px 24px 20px;font-family:Helvetica, Arial, sans-serif;font-size:12px;line-height:18px;color:#707884;text-align:center;">Fleet positions from Pavlus AIS plus published schedules. Dates/times PT; ~ = AIS estimate.<br>Page updated 10/15/26 11:00pm PT after each fleet check-in.</td></tr>
+<tr><td align="center" style="padding:2px 20px 24px 20px;font-family:Helvetica, Arial, sans-serif;font-size:12px;line-height:18px;color:#707884;text-align:center;">Fleet positions from Pavlus AIS plus published schedules. Dates/times PT; ~ = AIS estimate.<br>Page updated 10/16/26 12:01am PT after each fleet check-in.</td></tr>
 </table></td></tr></table></body></html>
